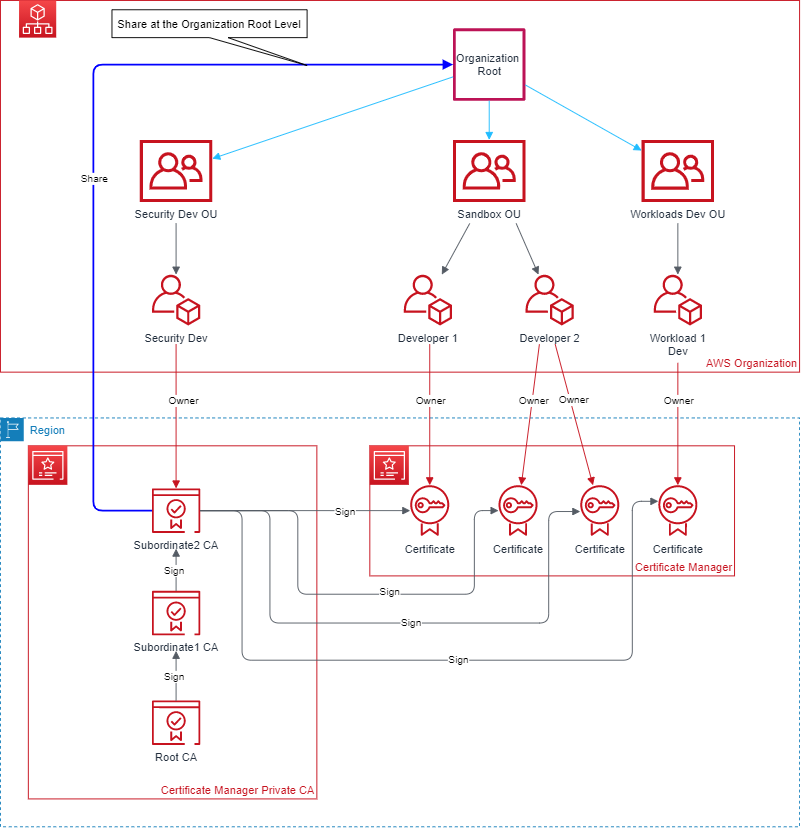
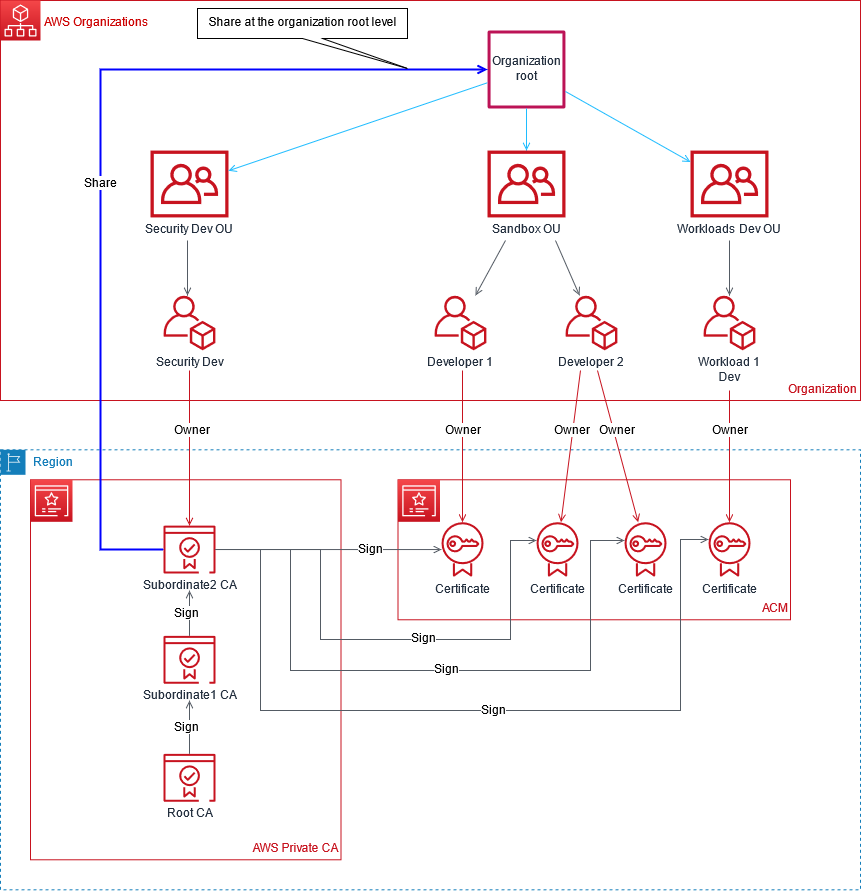
Re-branding from AWS Certificate Manager (ACM) Private CA (PCA) to AWS Private Certificate Authority (AWS Private CA)

diff --git a/README.md b/README.md
@@ -1,17 +1,17 @@
-# AWS Certificate Manager (ACM) Private CA (PCA) shared to AWS Organizations via AWS Resource Access Manager (AWS RAM)
+# AWS Private Certificate Authority (AWS Private CA) shared to AWS Organizations via AWS Resource Access Manager (AWS RAM)
 
-Large organizations often build a public key infrastructure (PKI) inside the AWS cloud, intended for private use within an organization. With AWS Certificate Manager (ACM) Private CA (PCA), you create your own CA hierarchy and issue certificates with it for authenticating internal users, computers, applications, services, servers, and other devices, and for signing computer code. Certificates issued by a private CA are trusted only within your organization, not on the public internet.
+Large organizations often build a public key infrastructure (PKI) inside the AWS cloud, intended for private use within an organization. With AWS Private Certificate Authority (AWS Private CA), you create your own CA hierarchy and issue certificates with it for authenticating internal users, computers, applications, services, servers, and other devices, and for signing computer code. Certificates issued by a private CA are trusted only within your organization, not on the public internet.
 
 AWS Resource Access Manager (AWS RAM) allows you to securely share AWS resources within your AWS Organization. Private CA Cross-Account Sharing, gives you the ability to grant permissions for other accounts to use a centralized CA to generate and issue certificates while using the AWS RAM to manage the permissions. This removes the need for a Private CA in every account, saving you money for each CA created, which is a more cost-effective way of deployment. 
 
 See also:  
-[Designing a CA hierarchy](https://docs.aws.amazon.com/acm-pca/latest/userguide/ca-hierarchy.html)  
-[Creating a private CA and CRL](https://docs.aws.amazon.com/acm-pca/latest/userguide/PcaCreateCa.html)  
+[Designing a CA hierarchy](https://docs.aws.amazon.com/privateca/latest/userguide/ca-hierarchy.html)  
+[Creating a private CA](https://docs.aws.amazon.com/privateca/latest/userguide/create-CA.html)  
 [How to use AWS RAM to share your ACM Private CA cross-account](https://aws.amazon.com/blogs/security/how-to-use-aws-ram-to-share-your-acm-private-ca-cross-account/)
 
 This solution has following features and benefits:
 
-- Centralize and simplify management of the private CA hierarchy using AWS ACM Private CA.
+- Centralize and simplify management of the private CA hierarchy using AWS Private CA.
 - Export certificates and keys to customer managed devices in AWS and on-premises.
 - Uses an AWS CloudFormation template for a rapid deployment and consistent provisioning experience.
 - Create a private root CA along with either 1, 2, 3 or 4 subordinate CA hierarchy.
@@ -30,7 +30,7 @@ This solution has following features and benefits:
 
 - All CAs will reside in a single account and in a single region.
 - Customer generated certificates and keys are NOT required to be imported into the CA.
-- The CRL bucket does not require public access. Best practice recommends keeping the CRL private. If internet access to the CRL is required, see using Amazon CloudFront to serve the CRLs within the [Enabling the S3 Block Public Access feature](https://docs.aws.amazon.com/acm-pca/latest/userguide/PcaCreateCa.html#s3-bpa) of the AWS Private Certificate Authority documentation.
+- The CRL bucket does not require public access. Best practice recommends keeping the CRL private. If internet access to the CRL is required, see using Amazon CloudFront to serve the CRLs within the [Enabling the S3 Block Public Access feature](https://docs.aws.amazon.com/privateca/latest/userguide/crl-planning.html#s3-bpa) of the AWS Private CA documentation.
 
 Use this solution in an AWS Organization environment needing multi-level hierarchy CA or alternatively implement the solution without AWS RAM sharing within a single account. See the AWS whitepaper for [Recommended OUs](https://docs.aws.amazon.com/whitepapers/latest/organizing-your-aws-environment/recommended-ous.html). 
 
@@ -50,14 +50,14 @@ This solution provides two options for sharing to AWS Organizations:
 
 # Alternatives
 
-This solution provides a single AWS Region, CA hierarchy with optional cross-account sharing via AWS RAM. ACM Private CA is a regional service so this solution only allows sharing cross-account within the same AWS Region. However, alternate usage patterns could be applied to this solution either by extending it or manually creating additional resources. Some examples of alternate usage patterns are:
+This solution provides a single AWS Region, CA hierarchy with optional cross-account sharing via AWS RAM. AWS Private CA is a regional service so this solution only allows sharing cross-account within the same AWS Region. However, alternate usage patterns could be applied to this solution either by extending it or manually creating additional resources. Some examples of alternate usage patterns are:
 
 - A CA hierarchy with the root outside of AWS
     - Subordinates will need to be signed and activated manually
 - A CA hierarchy with some subordinates outside of AWS
     - Use this solution to create the single AWS Region CA hierarchy, then manually add subordinates from outside of AWS
 - A CA hierarchy all within AWS but involving multiple AWS Regions
-    - Create the regional CA hierarchy with this solution, then manually add a subordinate hierarchy to the original root CA in other AWS Regions. See https://docs.aws.amazon.com/acm-pca/latest/userguide/PcaExternalRoot.html for more information.
+    - Create the regional CA hierarchy with this solution, then manually add a subordinate hierarchy to the original root CA in other AWS Regions. See https://docs.aws.amazon.com/privateca/latest/userguide/PcaExternalRoot.html for more information.
 
 # Test Cases
 
@@ -86,31 +86,31 @@ Use the AWS CLI for easy testing. ***Make sure you are using the security accoun
 *Modify the parameter files with your management account, orgID, OU and bucket names*
 
 ```
-aws cloudformation create-stack --stack-name testStack-L0 --template-body file://ACMPCA-RootCASubCA.yaml --parameters file://testStackL0.json
+aws cloudformation create-stack --stack-name testStack-L0 --template-body file://AWSPCA-RootCASubCA.yaml --parameters file://testStackL0.json
 ```
 ```
-aws cloudformation create-stack --stack-name testStack-L1 --template-body file://ACMPCA-RootCASubCA.yaml --parameters file://testStackL1.json
+aws cloudformation create-stack --stack-name testStack-L1 --template-body file://AWSPCA-RootCASubCA.yaml --parameters file://testStackL1.json
 ```
 ```
-aws cloudformation create-stack --stack-name testStack-L2 --template-body file://ACMPCA-RootCASubCA.yaml --parameters file://testStackL2.json
+aws cloudformation create-stack --stack-name testStack-L2 --template-body file://AWSPCA-RootCASubCA.yaml --parameters file://testStackL2.json
 ```
 ```
-aws cloudformation create-stack --stack-name testStack-L3 --template-body file://ACMPCA-RootCASubCA.yaml --parameters file://testStackL3.json
+aws cloudformation create-stack --stack-name testStack-L3 --template-body file://AWSPCA-RootCASubCA.yaml --parameters file://testStackL3.json
 ```
 ```
-aws cloudformation create-stack --stack-name testStack-L4 --template-body file://ACMPCA-RootCASubCA.yaml --parameters file://testStackL4.json
+aws cloudformation create-stack --stack-name testStack-L4 --template-body file://AWSPCA-RootCASubCA.yaml --parameters file://testStackL4.json
 ```
 ```
-aws cloudformation create-stack --stack-name testStack-NoCRL --template-body file://ACMPCA-RootCASubCA.yaml --parameters file://testStack-NoCRL.json
+aws cloudformation create-stack --stack-name testStack-NoCRL --template-body file://AWSPCA-RootCASubCA.yaml --parameters file://testStack-NoCRL.json
 ```
 ```
-aws cloudformation create-stack --stack-name testStack-NoLogBucket --template-body file://ACMPCA-RootCASubCA.yaml --parameters file://testStack-NoLogBucket.json
+aws cloudformation create-stack --stack-name testStack-NoLogBucket --template-body file://AWSPCA-RootCASubCA.yaml --parameters file://testStack-NoLogBucket.json
 ```
 ```
-aws cloudformation create-stack --stack-name testStack-orgShare --template-body file://ACMPCA-RootCASubCA.yaml --parameters file://testStackL4-orgShare.json
+aws cloudformation create-stack --stack-name testStack-orgShare --template-body file://AWSPCA-RootCASubCA.yaml --parameters file://testStackL4-orgShare.json
 ```
 ```
-aws cloudformation create-stack --stack-name testStack-noShare --template-body file://ACMPCA-RootCASubCA.yaml --parameters file://testStackL4-noShare.json
+aws cloudformation create-stack --stack-name testStack-noShare --template-body file://AWSPCA-RootCASubCA.yaml --parameters file://testStackL4-noShare.json
 ```
 
 ## Certificate Lifecycle Tests
@@ -148,32 +148,32 @@ AWS CLI or AWS Console can be used to clean up resources created for testing.
 See the sample AWS CLI command below for cleanup (*use your bucket names*):
 ```
 aws cloudformation delete-stack --stack-name testStack-L0
-aws s3 rb s3://mydomain-io-acmpca-crl-l0 --force
-aws s3 rb s3://mydomain-io-acmpca-log-l0 --force
+aws s3 rb s3://mydomain-io-awspca-crl-l0 --force
+aws s3 rb s3://mydomain-io-awspca-log-l0 --force
 ```
 ```
 aws cloudformation delete-stack --stack-name testStack-L1
-aws s3 rb s3://mydomain-io-acmpca-crl-l1 --force
-aws s3 rb s3://mydomain-io-acmpca-log-l1 --force
+aws s3 rb s3://mydomain-io-awspca-crl-l1 --force
+aws s3 rb s3://mydomain-io-awspca-log-l1 --force
 ```
 ```
 aws cloudformation delete-stack --stack-name testStack-L2
-aws s3 rb s3://mydomain-io-acmpca-crl-l2 --force
-aws s3 rb s3://mydomain-io-acmpca-log-l2 --force
+aws s3 rb s3://mydomain-io-awspca-crl-l2 --force
+aws s3 rb s3://mydomain-io-awspca-log-l2 --force
 ```
 ```
 aws cloudformation delete-stack --stack-name testStack-L3
-aws s3 rb s3://mydomain-io-acmpca-crl-l3 --force
-aws s3 rb s3://mydomain-io-acmpca-log-l3 --force
+aws s3 rb s3://mydomain-io-awspca-crl-l3 --force
+aws s3 rb s3://mydomain-io-awspca-log-l3 --force
 ```
 ```
 aws cloudformation delete-stack --stack-name testStack-L4
-aws s3 rb s3://mydomain-io-acmpca-crl-l4 --force
-aws s3 rb s3://mydomain-io-acmpca-log-l4 --force
+aws s3 rb s3://mydomain-io-awspca-crl-l4 --force
+aws s3 rb s3://mydomain-io-awspca-log-l4 --force
 ```
 ```
 aws cloudformation delete-stack --stack-name testStack-NoLogBucket
-aws s3 rb s3://mydomain-io-acmpca-crl-l5 --force
+aws s3 rb s3://mydomain-io-awspca-crl-l5 --force
 ```
 ```
 aws cloudformation delete-stack --stack-name testStack-NoCRL

diff --git a/epics.md b/epics.md
@@ -3,7 +3,7 @@
 ## Architect the CA hierarchy
 | **Story** | **Description** | **Skills required** |
 |--|--|--|
-| Collect certificate subject information | Gather certificate subject information about the certificate owner: organization name, organization unit, country, state, locallity, and common name. | Cloud architect, Security architect, PKI engineer |
+| Collect certificate subject information | Gather certificate subject information about the certificate owner: organization name, organization unit, country, state, locality, and common name. | Cloud architect, Security architect, PKI engineer |
 | Collect optional information about AWS Organizations | If the CA is to be part of an AWS Organizations structure and the CA hierarchy is to be shared inside, collect the management account number, organizations ID, and optionally the organization unit (OU) ID if the CA hierarchy is only to be shared with a specific OU. Also, determine what, if any, accounts or OUs of the AWS Organizations that the CA is to be shared. | Cloud architect, Security architect, PKI engineer |
 | Design the CA hierarchy | Determine which account will house the root and subordinate CAs. Determine how many subordinate levels the hierarchy requires between the root and the end-entity certificates. See [Designing a CA hierarchy](https://docs.aws.amazon.com/acm-pca/latest/userguide/ca-hierarchy.html) for more information. | Cloud architect, Security architect, PKI engineer |
 | Determine naming and tagging conventions for the CA hierarchy | Determine the names for the AWS resources: the root CA and each subordinate CA. Determine what tags should be assigned to each CA. | Cloud architect, Security architect, PKI engineer |
@@ -23,7 +23,7 @@
 ## Validate and document the CA hierarchy
 | **Story** | **Description** | **Skills required** |
 |--|--|--|
-| Validate optional AWS RAM sharing | If the CA hierarchy is shared with other accounts in an AWS Organizations, login to the AWS Console of one of those accounts, navigate to AWS ACM Private CA, and confirm that the newly created CA is shared to this account. Only the lowest level CA in the hierarchy will be visible as this is the CA that generates the end-entity certificates. Repeat for a sampling of the accounts that the CA is shared with. | Cloud administrator, Security engineer, PKI engineer |
+| Validate optional AWS RAM sharing | If the CA hierarchy is shared with other accounts in an AWS Organizations, login to the AWS Console of one of those accounts, navigate to AWS Private CA, and confirm that the newly created CA is shared to this account. Only the lowest level CA in the hierarchy will be visible as this is the CA that generates the end-entity certificates. Repeat for a sampling of the accounts that the CA is shared with. | Cloud administrator, Security engineer, PKI engineer |
 | Validate the CA hierarchy with certificate lifecycle tests | Locate the lifecycle tests provided with this APG pattern. Run the tests that are included to request a certificate, export a certificate, describe a certificate, and delete a certificate from the AWS CLI. | Cloud administrator, Security engineer, PKI engineer |
 | Import certificate chain into trust stores | For browsers and other applications to trust a certificate, the certificate’s issuer must be included in the browser’s trust store, which is a list of trusted CAs. Add the certificate chain for the new CA hierarchy to your browser's and application’s trust store. Confirm that the end-entity certificates are trusted. | Cloud administrator, Security engineer, PKI engineer |
 | Create a runbook to document the CA hierarchy | Create a runbook document to describe the architecture of the CA hierarchy, the account structure that can request end-entity certificates, the build process, and basic management tasks like end-certificate issuing (unless allowing child account self-service), usage, and tracking. | Cloud administrator, Security engineer, PKI engineer |

diff --git a/CHANGELOG.md b/CHANGELOG.md
@@ -1,2 +1,3 @@
 # CHANGE LOG
+* V 1.1 - Re-branding from AWS Certificate Manager (ACM) Private CA (PCA) to AWS Private Certificate Authority (AWS Private CA)
 * V 1.0 - First release
